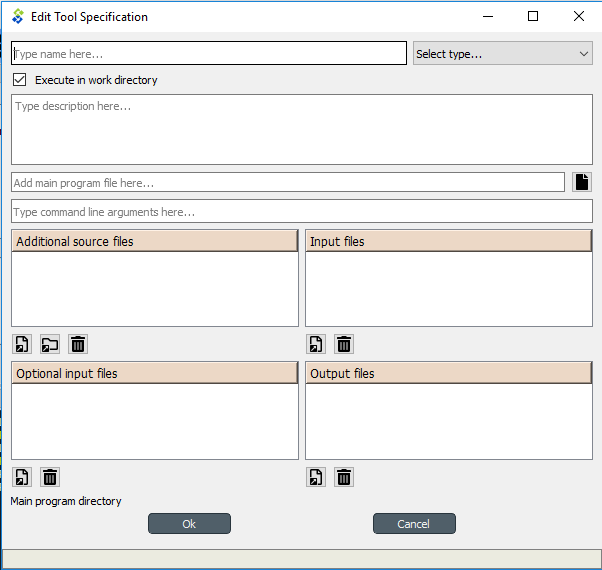
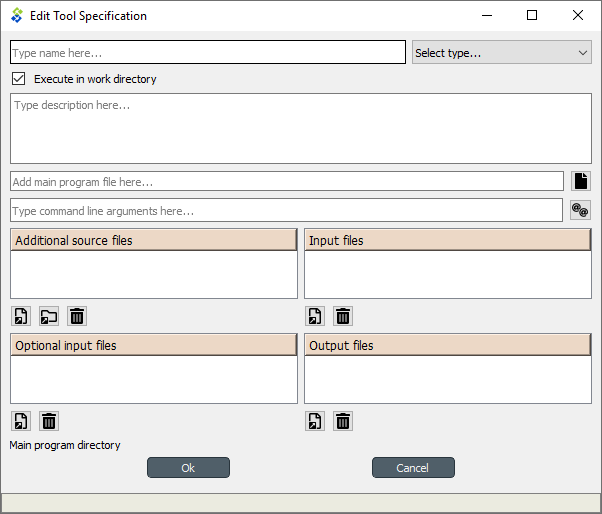
Update Tool specification editor documentation
Re #256

Changed region(s): [[0.0, 0.0, 1.0, 1.0]]

diff --git a/docs/source/tool_specification_editor.rst b/docs/source/tool_specification_editor.rst
@@ -7,6 +7,8 @@
    :width: 16
 .. |play-selected| image:: ../../spinetoolbox/ui/resources/project_item_icons/play-circle-regular.svg
    :width: 16
+.. |insert-tag| image:: ../../spinetoolbox/ui/resources/double-at.svg
+   :width: 16
 
 .. _Tool specification editor:
 
@@ -130,10 +132,13 @@ relevant to a Tool's current connections. For example, the :literal:`@@url-input
 database URLs. If the command line arguments for the *Model* tool in the image below were
 :literal:`--input-database=@@url-inputs@@` the tool would be executed by
 :literal:`python tool_script.py --input_database=sqlite:///input_database.sqlite` command
-if *Input data*'s database URL was :literal:`sqlite:///input_database.sqlite`.
+in case *Input data*'s database URL was :literal:`sqlite:///input_database.sqlite`.
 
 .. image:: img/partial_dag_input_datastore-tool-output_data_store.png
    :align: center
+
+The |insert-tag| button next to the command line arguments field in Tool Specification editor
+gives a quick access to insert the tags into the field.
 
 Below is a list of the command line argument tags that are currently available:
 
